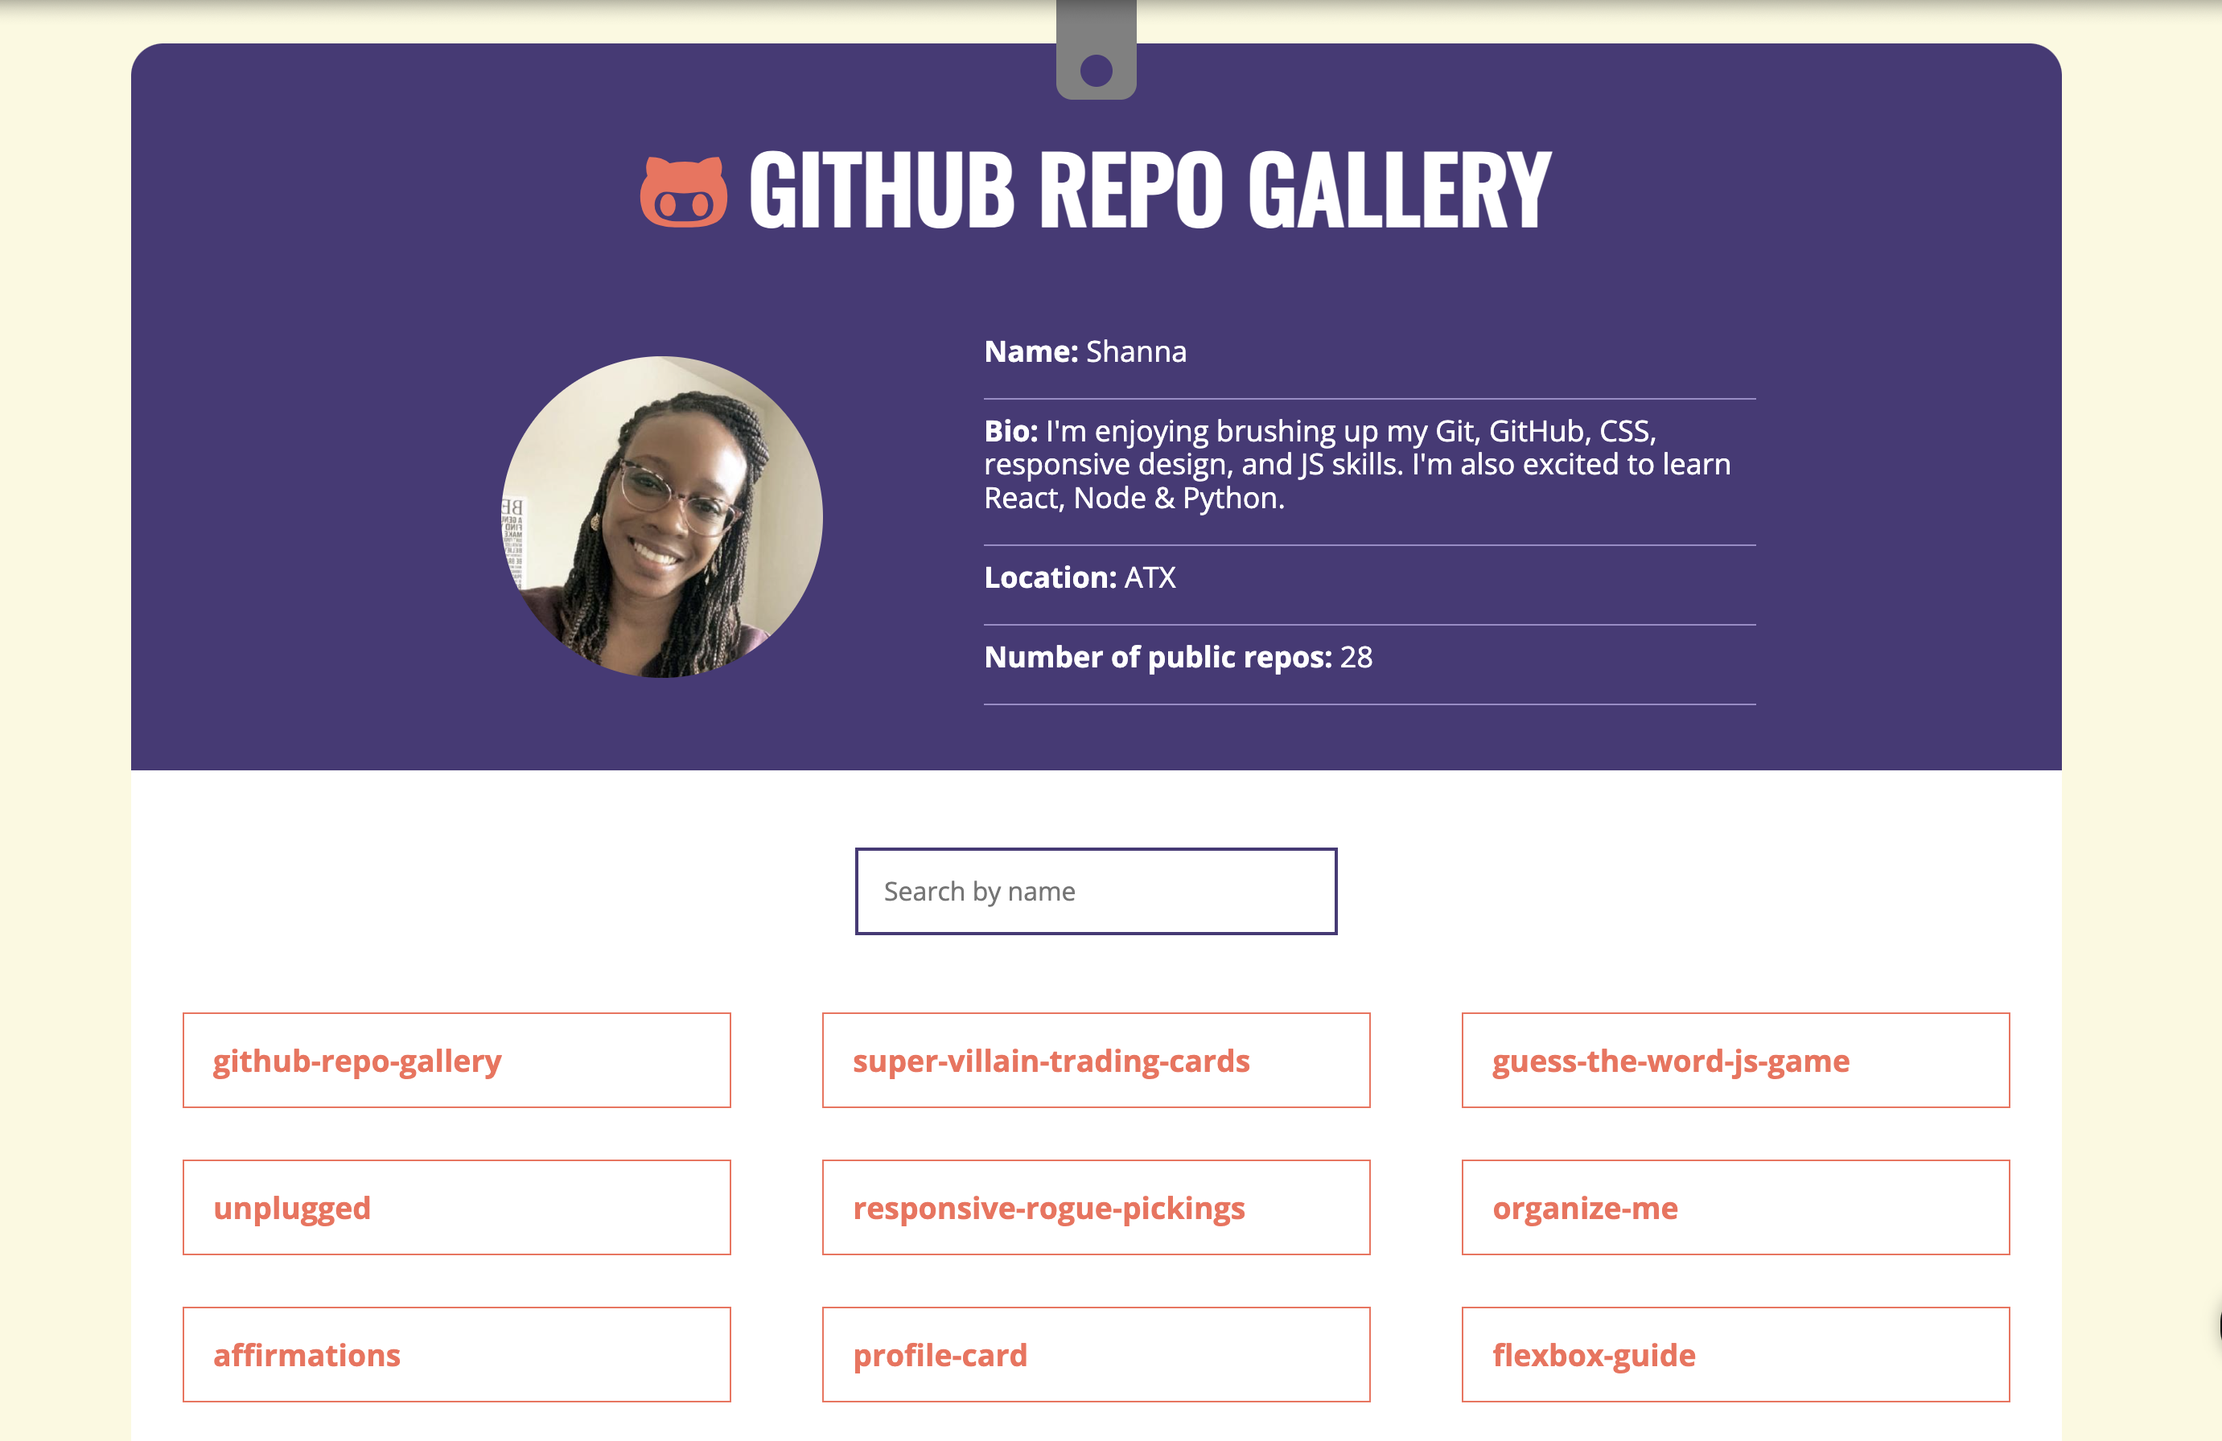
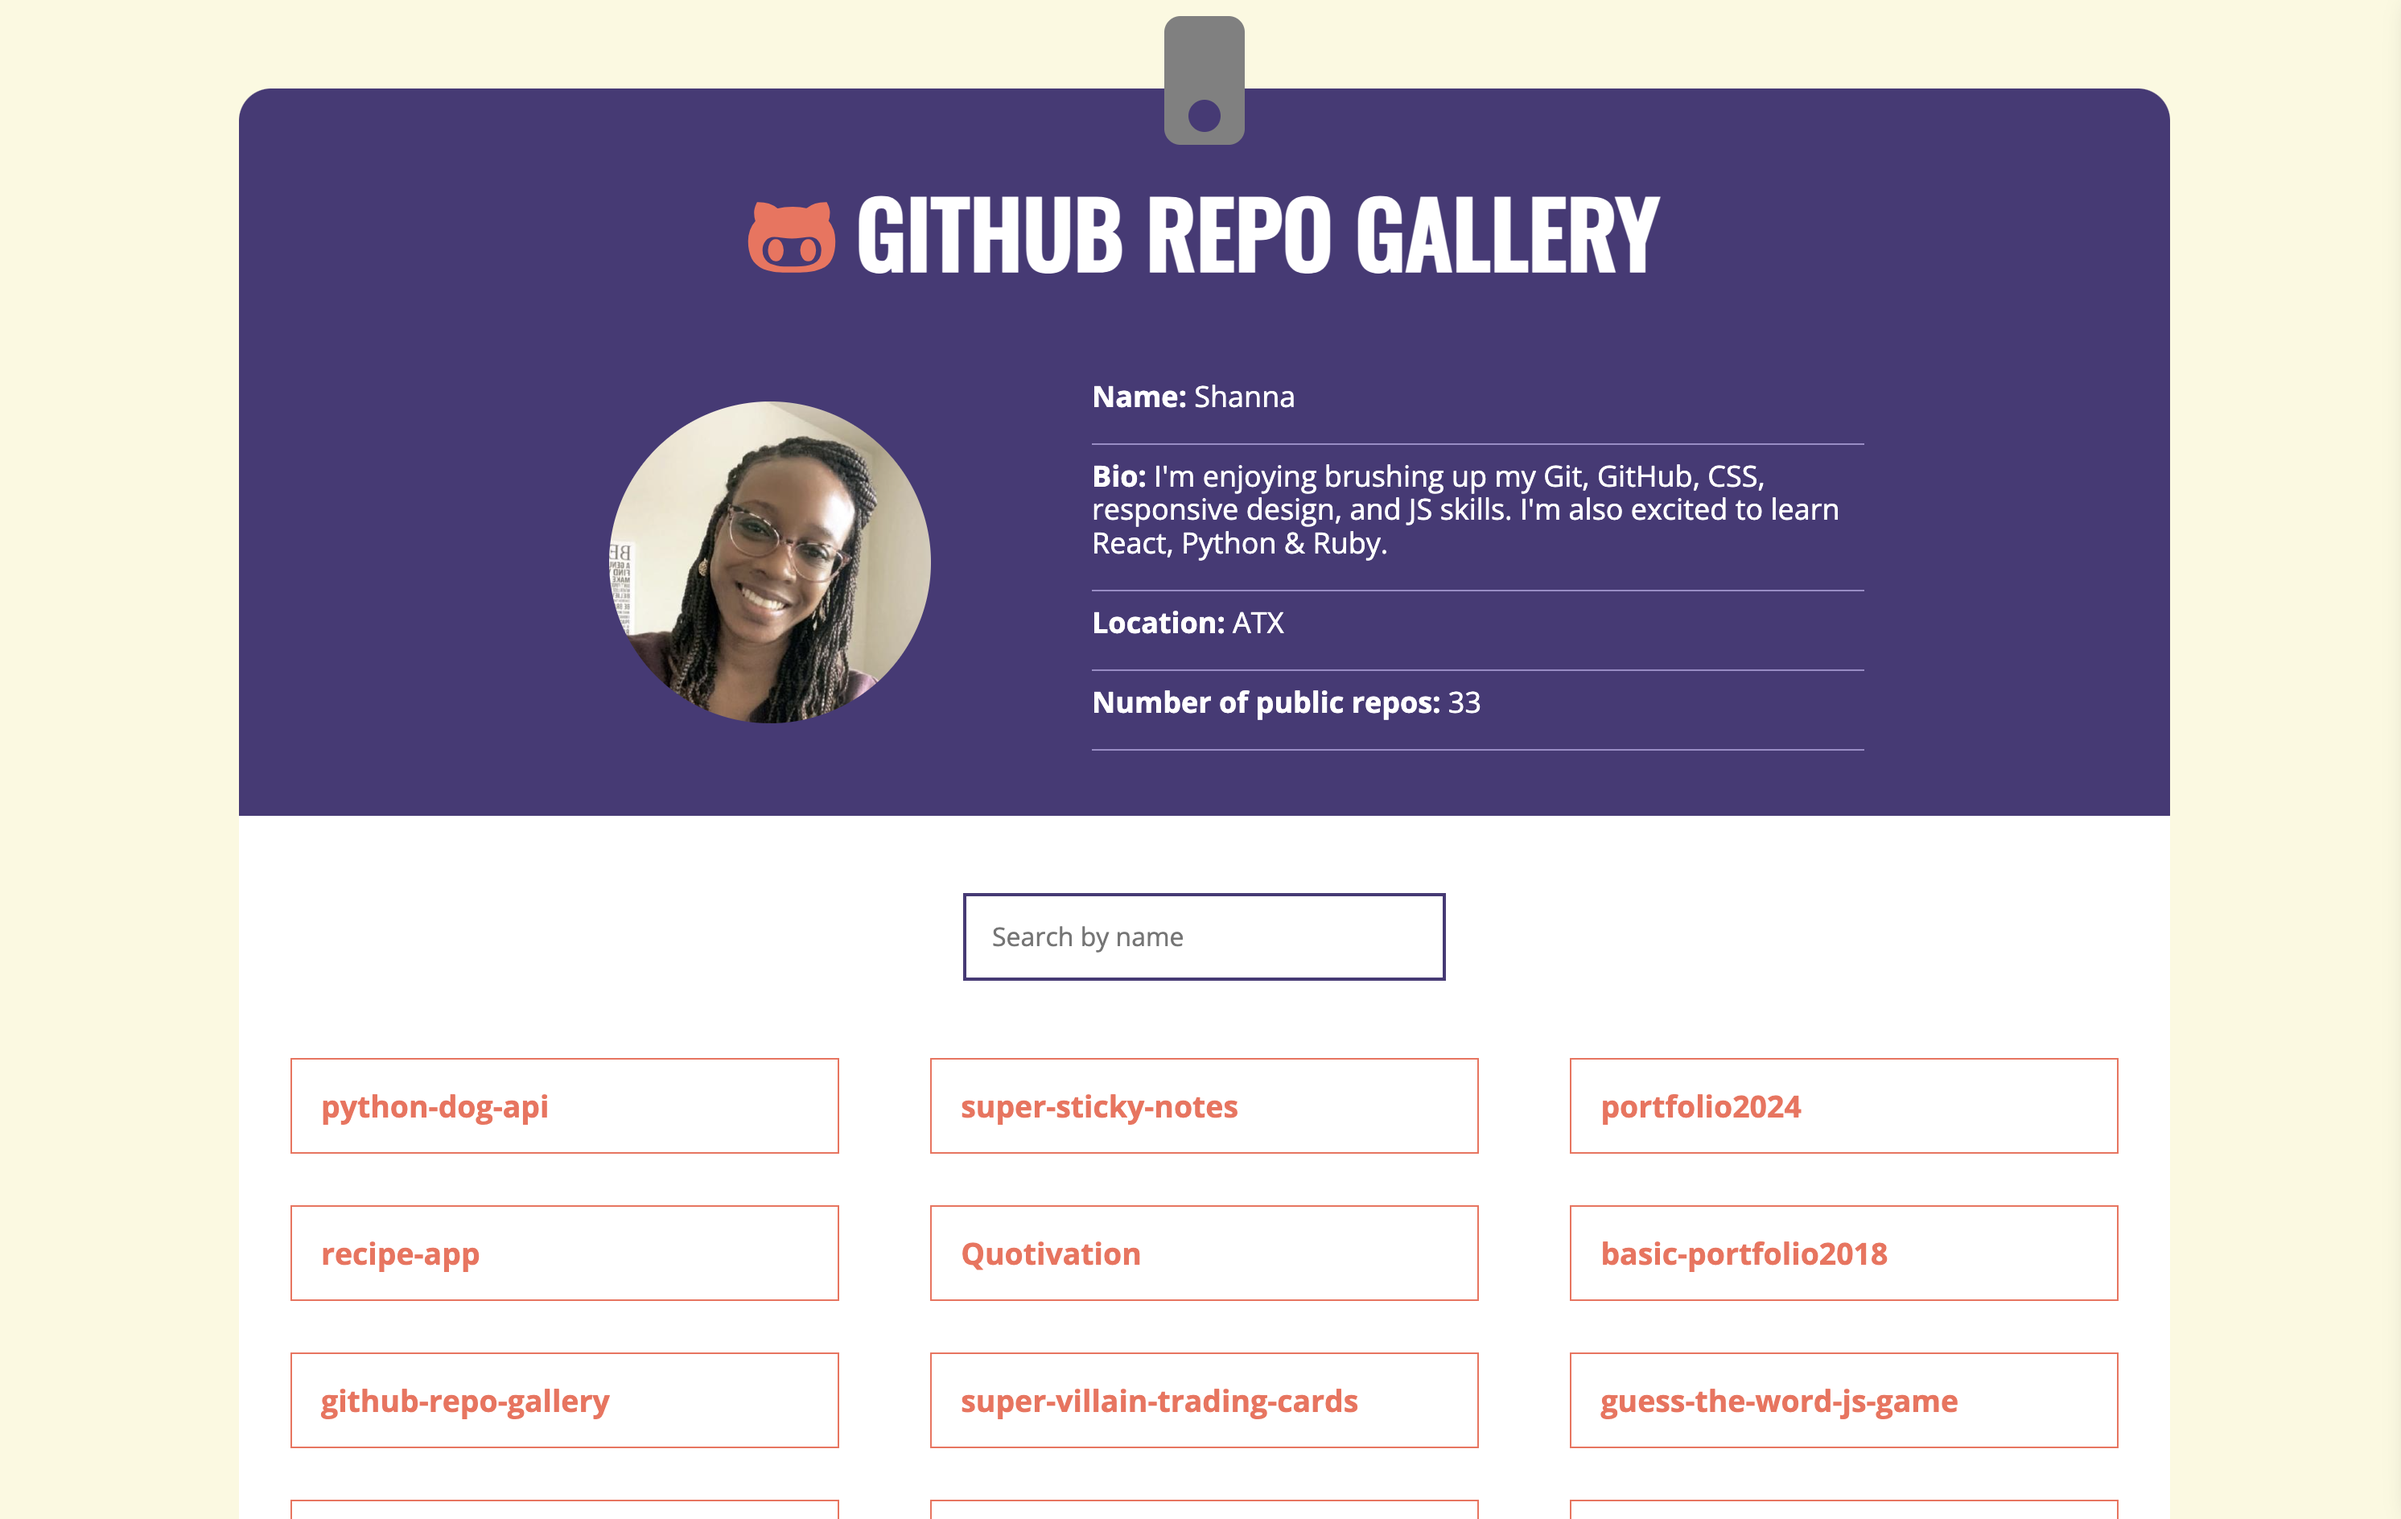
image updates and new recipe-app project added

diff --git a/index.html b/index.html
@@ -49,16 +49,16 @@
         <div class="content-wrapper">
           <h3 class="portfolio-header">Projects</h3>
           <div class="portfolio-wrapper">
-            <!--<div class="home-portfolio-piece">
+            <div class="home-portfolio-piece">
               <figure>
-                <a href="" target="_blank"><img src="" alt=""></a>
+                <a href="https://github.com/shannawalsh/recipe-app" target="_blank"><img src="img/recipe-app.png" alt=""></a>
               </figure>
               <h4>Recipe Card Web App</h4>
-              <p class="project-description">This project is a web application for storing your favorite recipes. Built using Flask on the back end and React on the front end. This web app will allow users to create update, and delete recipes, as well as search them.</p>
+              <p class="project-description">This project is a web application for storing your favorite recipes. Built using Flask on the back end and React on the front end. This web app will allow users to create, update, and delete recipes, as well as search them.</p>
               <p><span>Skills: </span>REST API Framework, Flask Web Framework, Routing Requests, SQL Databases, Conditional rendering, Deploying a React app, useEffect hook and useState hook</p>
-              <p><span>Tools: </span>Azure or AWS</p>
-              <a class="project-link" href="" target="_blank">live page</a>
-            </div>-->
+              <p><span>Tools: </span>Chrome Dev Tools, Visual Studio Code</p>
+              <a class="project-link" href="https://github.com/shannawalsh/recipe-app" target="_blank">GitHub Repo</a>
+            </div>
             <div class="home-portfolio-piece">
               <figure>
                 <a href="https://quotivation-shanna.netlify.app/" target="_blank"><img src="img/quotivation.png" alt="quotivation project screenshot"></a>
@@ -71,7 +71,7 @@
             </div>
             <div class="home-portfolio-piece">
               <figure>
-                <a href="https://main.d1cj56pgxugyoh.amplifyapp.com" target="_blank"><img src="img/super-sticky-notes.png" alt="super sticky notes project screenshot"></a>
+                <a href="https://main.d1cj56pgxugyoh.amplifyapp.com" target="_blank"><img src="img/sticky-notes-app.png" alt="super sticky notes project screenshot"></a>
               </figure>
               <h4>Super Sticky Notes</h4>
               <p class="project-description">This is a Greenfield project creating an interactive app that will let users create "sticky notes". Multiple components used to build the classic sticky note UI with the ability to add, edit, delete and search for notes.</p>
